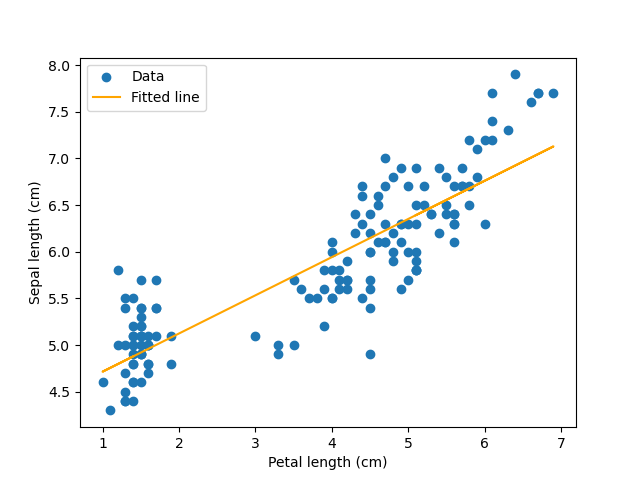
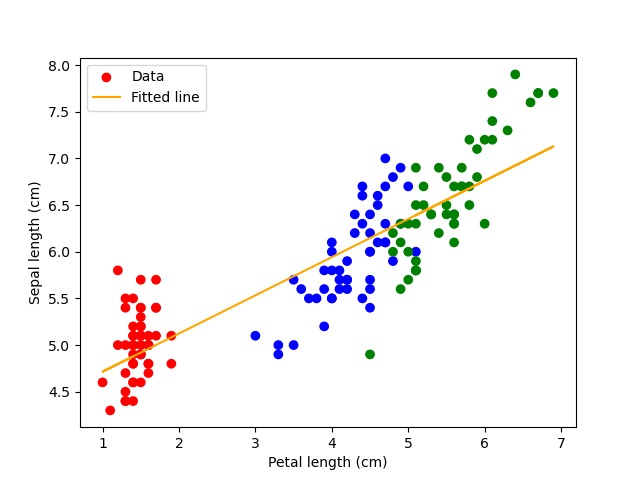
Updating graph and script

diff --git a/plot_script.py b/plot_script.py
@@ -10,8 +10,7 @@ species = dataframe.species
 regression = stats.linregress(x, y)
 slope = regression.slope
 intercept = regression.intercept
-#plt.scatter(x, y, label = 'Data', c = dataframe.species.map(color))
-plt.scatter(x, y, label = 'Data')
+plt.scatter(x, y, label = 'Data', c = dataframe.species.map(color))
 plt.plot(x, slope * x + intercept, color = "orange", label = 'Fitted line')
 plt.xlabel("Petal length (cm)")
 plt.ylabel("Sepal length (cm)")
